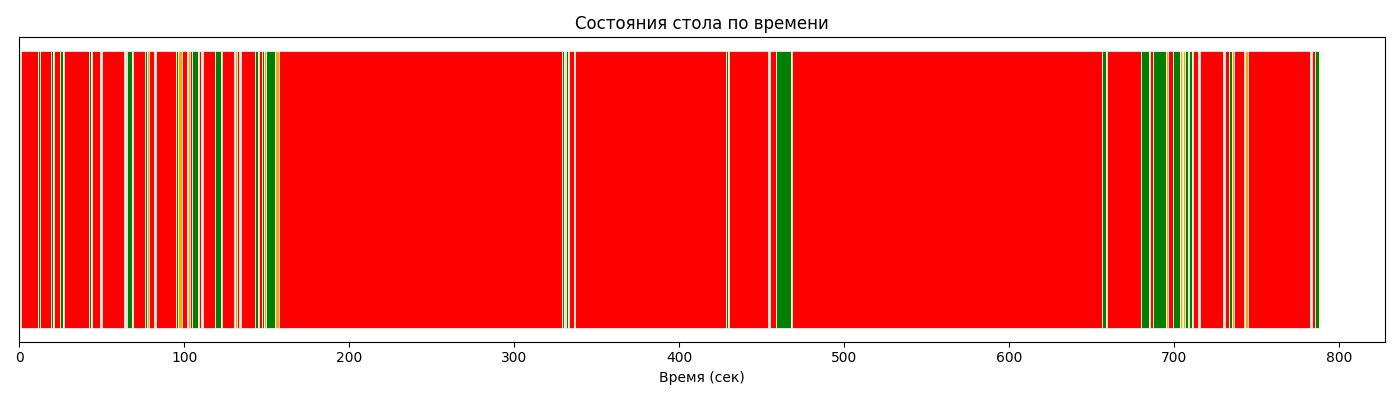
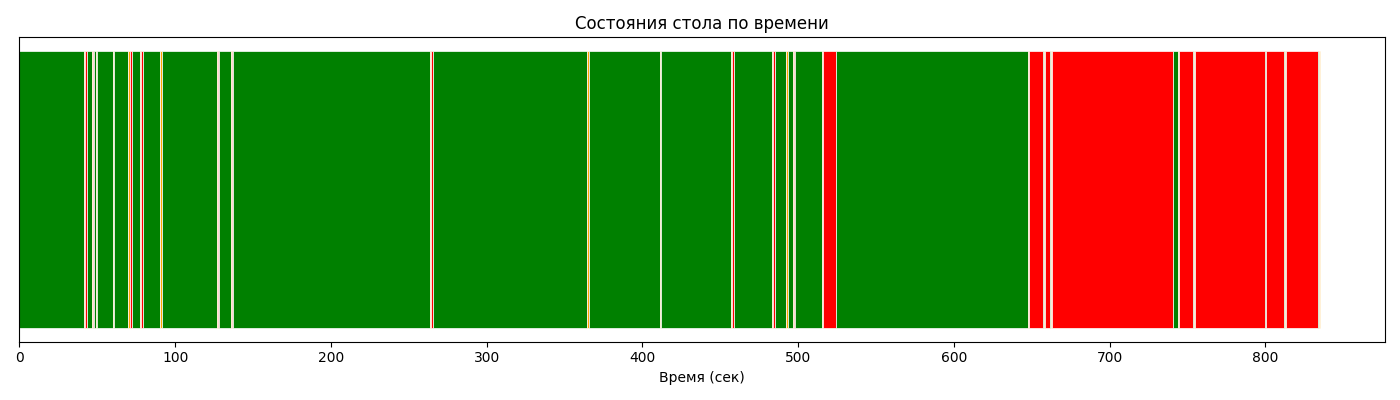
added README and full pipeline

diff --git a/README.md b/README.md
@@ -1,0 +1,91 @@
+# Прототип системы детекции уборки столиков по видео
+
+## Быстрый старт
+
+Установка PyTorch с поддержкой CUDA (рекомендуется):
+```bash
+pip install torch torchvision --index-url https://download.pytorch.org/whl/cu121
+```
+Установка остальных зависимостей и запуск
+```bash
+pip install -r requirements.txt
+python main.py --video video1.mp4
+```
+
+По умолчанию порог уверенности модели — 0.5. Можно изменить:
+```bash
+python main.py --video video1.mp4 --conf 0.6
+```
+
+После запуска появится окно с первым кадром видео — надо выделить зону столика мышью и нажать **Enter**.
+
+## Зависимости
+
+```
+ultralytics
+opencv-python
+pandas
+matplotlib
+torch
+torchvision
+```
+
+
+## Выбранное видео и столик
+
+- Видео: `video1.mp4`
+- Столик: правый в верхнем углу:
+
+![alt text](image-1.png)
+
+- ROI задаётся вручную через `cv2.selectROI` при каждом запуске
+
+## Логика детекции событий
+
+**Модель:** YOLOv11m (`yolo11m.pt`) — детектирует людей (class_id = 0) с порогом уверенности назначенным пользователем через `--conf` или 0.4 по умолчанию
+
+**Определение состояния стола:** на каждом кадре проверяется пересечение bbox любого из задетектированных людей с зоной ROI стола. Если пересечение есть — стол считается занятым.
+
+**Три состояния:**
+- `empty` — в зоне стола нет людей
+- `arrived` — человек появился в зоне после периода пустоты
+- `taked` — стол занят
+
+## Результаты
+
+| Метрика | Значение |
+|---|---|
+| Среднее время пустого стола | `TODO сек (TODO мин)` |
+| Среднее время занятого стола | `TODO сек (TODO мин)` |
+
+А также небольшая визуализация изменения состояния рассматриваемоего столика
+
+![alt text](timeline.png)
+## Пример проблемного кадра
+
+![alt text](image.png)
+
+`Проходящие мимо люди попадают в кадр и срабатывает смена состояния`
+
+![alt text](image-2.png)
+
+`Также, иногда модель теряет детекцию на несколько кадров, и состояние столика меняется на "пустое"`
+
+
+## Структура проекта
+
+```
+.
+├── data/            # Папка с видео
+├── main.py          # Основной скрипт
+├── requirements.txt
+├── README.md
+├── output.mp4       # Выходное видео с визуализацией
+├── timeline.png     # График состояний стола
+└── report.txt       # Лог событий и статистика
+```
+
+## Выводы:
+1. Не смотря на то, что в ТЗ было сказано использовать простую модель для детекции, для улучшения качества я решил использовать YOLO11m на CUDA после экспериментов с YOLO11n, для улучшения качества детекции БЕЗ дообучения
+2. Даже самое простое дообучение модели на детекцию людей, ЗНАЧИТЕЛЬНО повысит качество детекции
+3. Благодаря использованию классов, можно легко масштабировать решение на несколько столиков сразу
